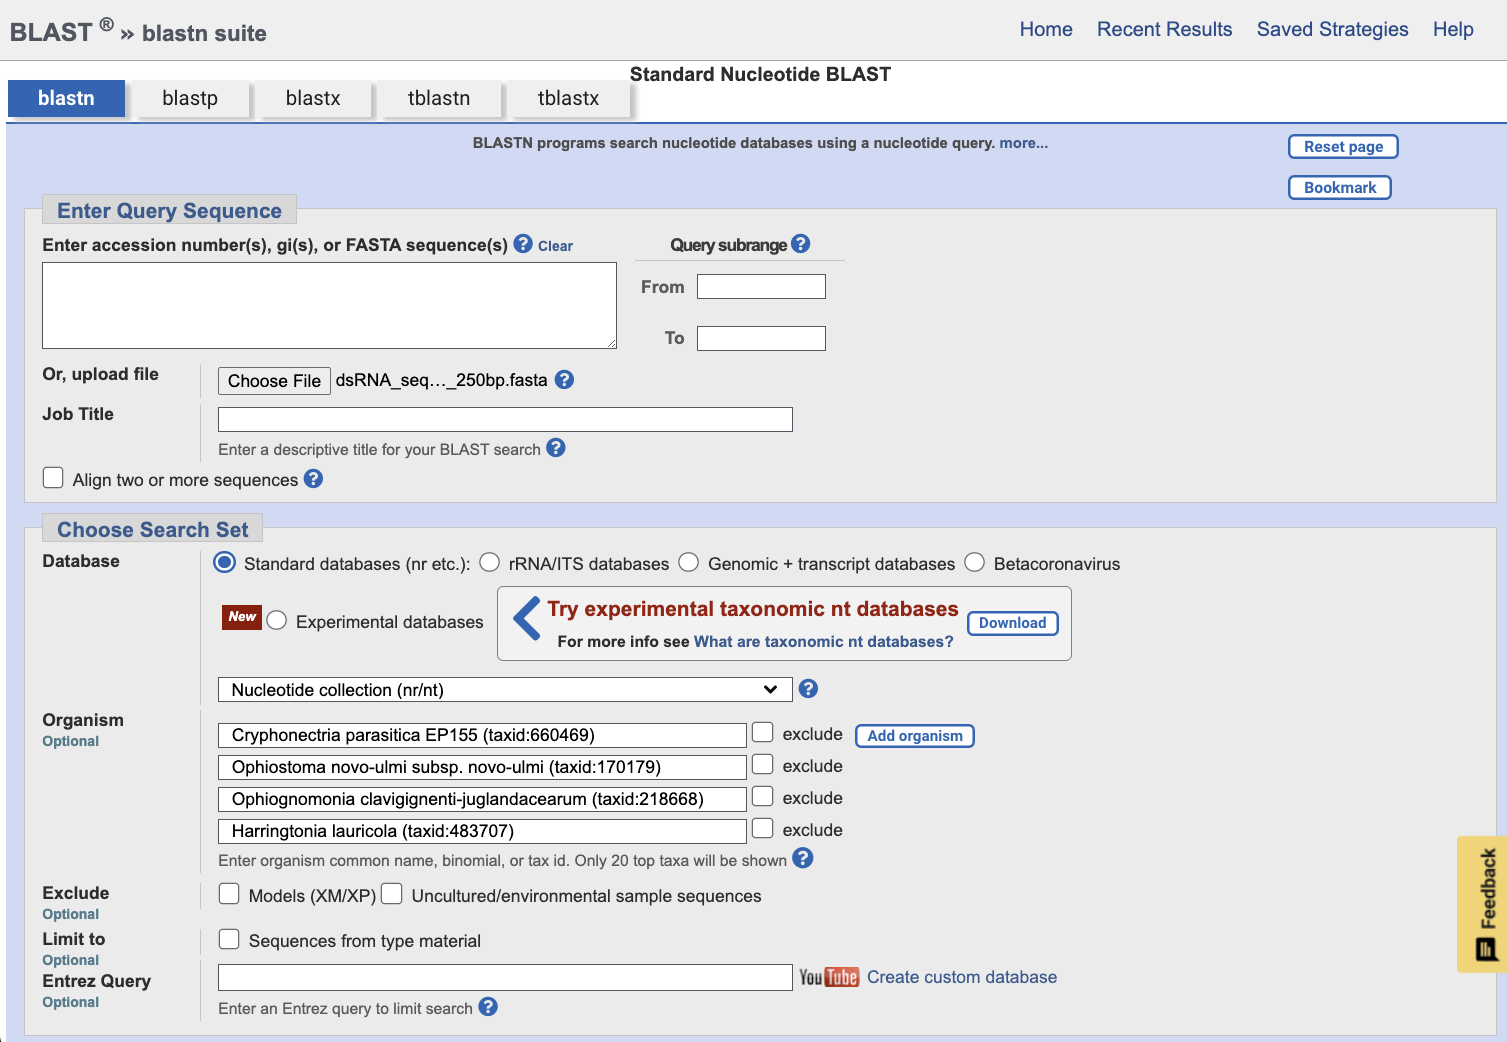
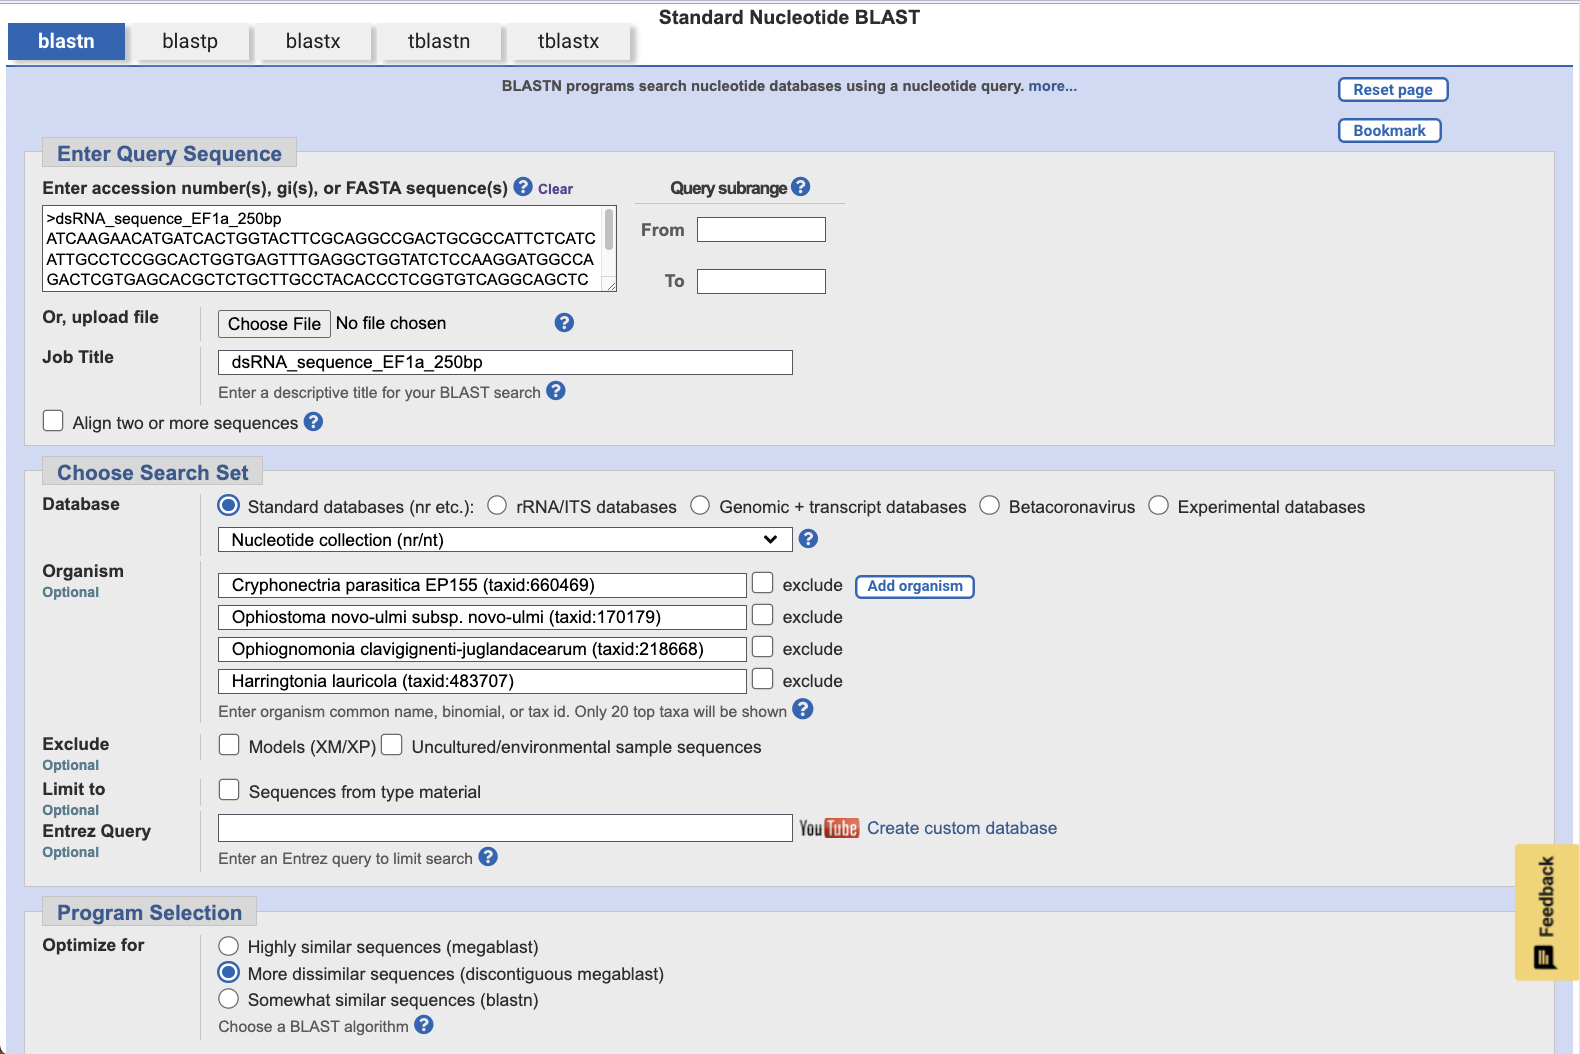
adding final steps

diff --git a/README.md b/README.md
@@ -153,5 +153,11 @@ All that's left to do now is to run one final BLAST, verifying that our chosen d
 
 ![NCBI BLAST with final dsRNA sequence](ncbiBLAST_final_dsRNA_seq.png)
 
+In order to recover all 10 original hits from the CDS BLAST for this specific region and set of species, I did need to decrease the search stringency by changing the `Program Selection` -> `Optimize for` setting from `Highly similar sequences (megablast)` to `More dissimilar sequences (discontinuous megablast)`. We are still considering this valid, with the idea that the ultimate test of effectiveness is still the biological result, and that these BLAST parameter thresholds are somewhat arbitrary.
 
+#### Order oligos to produce dsRNA molecules
+
+The final task in this process is now to order DNA molecules with the 250bp sequence stored in `dsRNA_sequence_EF1a_250bp.fasta`, and use molecular kits to convert these molecules to dsRNA!
+
+Next steps include designing other dsRNA sequences for alternate target genes, and designing scrambled dsRNAs with fluorescent labels for the uptake assay.
 
